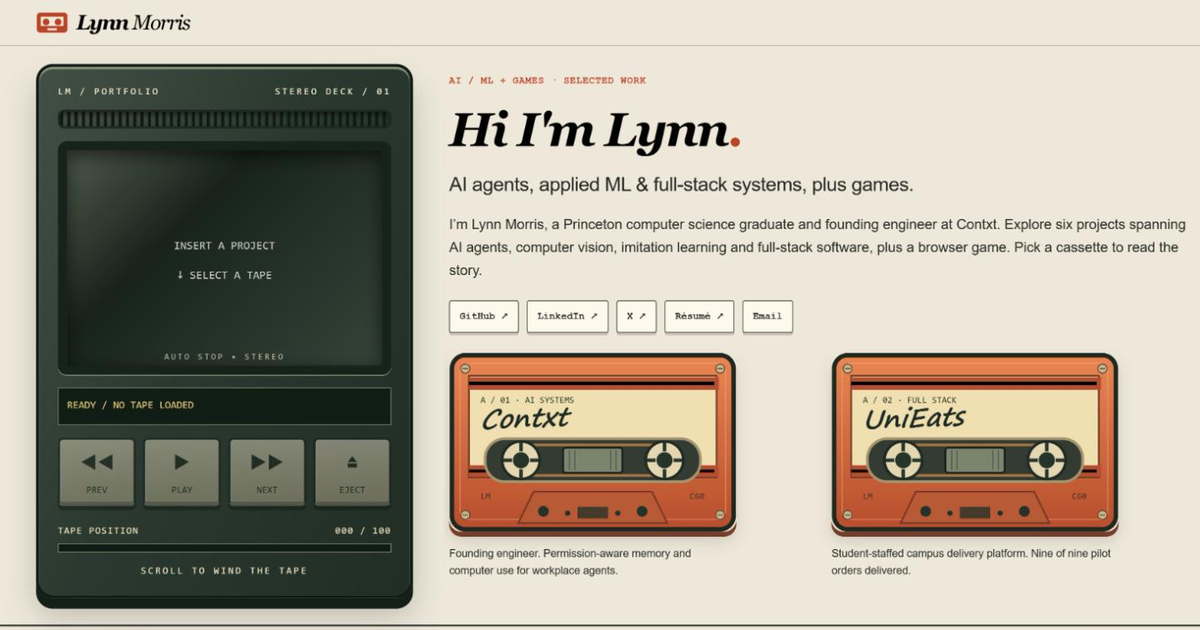
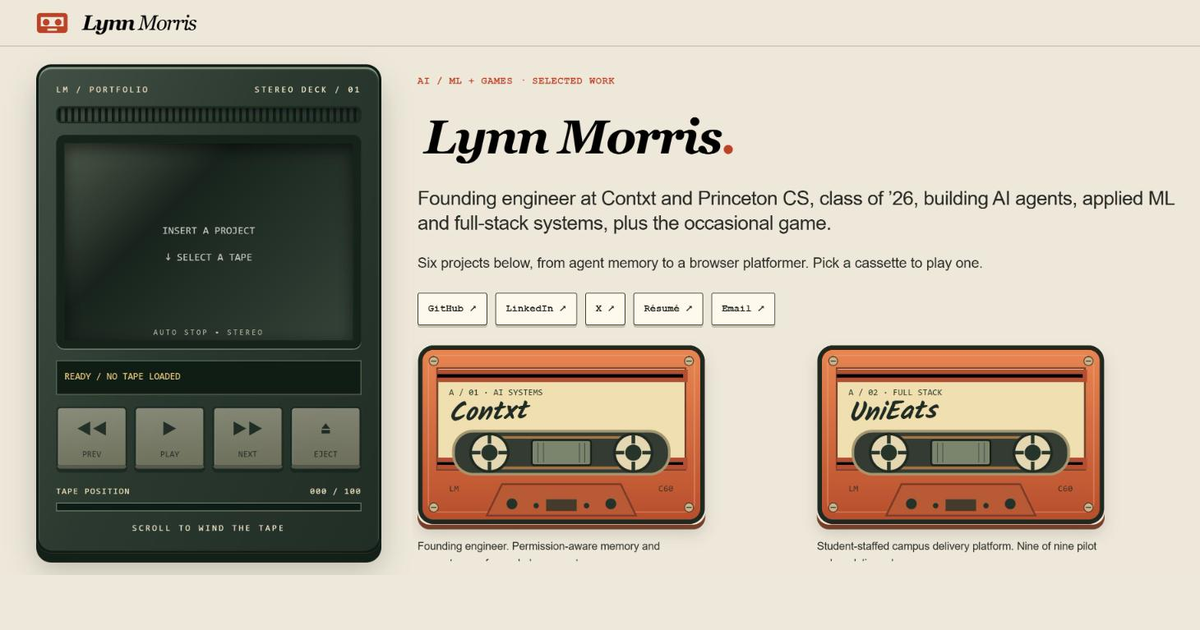
Rework the intro and stop the theme toggle from shifting the layout
- Headline is the name; the tagline carries the role and Princeton CS '26,
  and the body is just the project prompt
- Light mode now uses the same padding as dark mode's name plates, and the
  theme button keeps one width for both labels
- Refresh the link-preview image with the new intro

diff --git a/index.html b/index.html
@@ -1,1 +1,1 @@
-<!doctype html><html lang="en"><meta charset="utf-8"><meta name="viewport" content="width=device-width,initial-scale=1"><title>Lynn Morris · Tape collection</title><meta name="description" content="Lynn Morris is a founding engineer at Contxt and a Princeton computer science graduate. Case studies in AI agents, computer vision, imitation learning, full-stack software and a browser game."><link rel="canonical" href="https://lm7452.github.io/"><meta property="og:type" content="website"><meta property="og:url" content="https://lm7452.github.io/"><meta property="og:site_name" content="Lynn Morris"><meta property="og:title" content="Lynn Morris · AI / ML & Games"><meta property="og:description" content="Founding engineer at Contxt. Six projects across AI agents, computer vision, imitation learning, full-stack software and a browser game."><meta property="og:image" content="https://lm7452.github.io/assets/og-image.png"><meta property="og:image:width" content="1200"><meta property="og:image:height" content="630"><meta property="og:image:alt" content="Lynn Morris's portfolio: a cassette deck beside a shelf of project tapes."><meta name="twitter:card" content="summary_large_image"><meta name="twitter:creator" content="@Lynnmorris925"><meta name="theme-color" content="#eee8db" media="(prefers-color-scheme: light)"><meta name="theme-color" content="#202621" media="(prefers-color-scheme: dark)"><link rel="icon" href="assets/favicon.svg" type="image/svg+xml"><link rel="apple-touch-icon" href="assets/apple-touch-icon.png"><script>(function(){var t;try{t=localStorage.getItem('cassette-theme')}catch(e){}document.documentElement.dataset.theme=t||(matchMedia('(prefers-color-scheme: dark)').matches?'dark':'light')})()</script><link rel="preload" href="assets/fonts/kalam-700-latin.woff2" as="font" type="font/woff2" crossorigin><link rel="stylesheet" href="style.css?v=38e26c11"><link rel="stylesheet" href="player.css?v=dcef32e2"><script defer src="theme.js?v=d630f1e6"></script><script defer src="projects.js?v=82e04541"></script><script defer src="player.js?v=cfc456c7"></script><body><a class="skip" href="#content">Skip to content</a><header><a class="brand" href="#collection"><svg class="brand-icon" viewBox="0 0 48 32" aria-hidden="true"><rect x="1" y="1" width="46" height="30" rx="5" fill="currentColor"/><path d="M7 7h34v14H7z" fill="var(--bg)"/><circle cx="15" cy="15" r="5" fill="currentColor"/><circle cx="33" cy="15" r="5" fill="currentColor"/><path d="M17 26h14" stroke="var(--bg)" stroke-width="3"/></svg><span>Lynn <em>Morris</em></span></a><nav aria-label="Main"><a href="#collection">Collection</a><a href="assets/lynn-morris-resume.pdf" target="_blank" rel="noopener">Résumé</a><button id="theme">Dark mode</button></nav></header><main id="main"><div class="deck-layout"><div class="player-slot"><section class="deck" aria-label="Project cassette player"><div class="deck-top"><span>LM / PORTFOLIO</span><span>STEREO DECK / 01</span></div><div class="speaker" aria-hidden="true"></div><div class="bay"><div id="loaded" class="loaded"><span class="empty">INSERT A PROJECT<br>↓ SELECT A TAPE</span></div></div><p id="status" class="display" role="status">READY / NO TAPE LOADED</p><div class="keys"><button id="prev" aria-label="Previous project" disabled>◀◀<small>PREV</small></button><button id="play" disabled>▶<small>PLAY</small></button><button id="next" aria-label="Next project" disabled>▶▶<small>NEXT</small></button><button id="eject" disabled>⏏<small>EJECT</small></button></div><div class="tape-position"><label for="position">TAPE POSITION <output id="position-value">000 / 100</output></label><progress id="position" max="100" value="0">0%</progress></div><p class="deck-note">SCROLL TO WIND THE TAPE</p></section></div><div id="content" tabindex="0" role="region" aria-label="Cassette collection and project details"></div></div></main><footer><span>Lynn Morris · AI / ML & Games</span><span class="footer-links"><a href="https://github.com/Lm7452" target="_blank" rel="noopener">GitHub</a> · <a href="https://www.linkedin.com/in/lynnmorris925/" target="_blank" rel="noopener">LinkedIn</a> · <a href="https://x.com/Lynnmorris925" target="_blank" rel="noopener">X</a> · <a href="mailto:lmorris92504@gmail.com" target="_blank" rel="noopener">Email</a></span></footer></body></html>
+<!doctype html><html lang="en"><meta charset="utf-8"><meta name="viewport" content="width=device-width,initial-scale=1"><title>Lynn Morris · Tape collection</title><meta name="description" content="Lynn Morris is a founding engineer at Contxt and a Princeton computer science graduate. Case studies in AI agents, computer vision, imitation learning, full-stack software and a browser game."><link rel="canonical" href="https://lm7452.github.io/"><meta property="og:type" content="website"><meta property="og:url" content="https://lm7452.github.io/"><meta property="og:site_name" content="Lynn Morris"><meta property="og:title" content="Lynn Morris · AI / ML & Games"><meta property="og:description" content="Founding engineer at Contxt. Six projects across AI agents, computer vision, imitation learning, full-stack software and a browser game."><meta property="og:image" content="https://lm7452.github.io/assets/og-image.png"><meta property="og:image:width" content="1200"><meta property="og:image:height" content="630"><meta property="og:image:alt" content="Lynn Morris's portfolio: a cassette deck beside a shelf of project tapes."><meta name="twitter:card" content="summary_large_image"><meta name="twitter:creator" content="@Lynnmorris925"><meta name="theme-color" content="#eee8db" media="(prefers-color-scheme: light)"><meta name="theme-color" content="#202621" media="(prefers-color-scheme: dark)"><link rel="icon" href="assets/favicon.svg" type="image/svg+xml"><link rel="apple-touch-icon" href="assets/apple-touch-icon.png"><script>(function(){var t;try{t=localStorage.getItem('cassette-theme')}catch(e){}document.documentElement.dataset.theme=t||(matchMedia('(prefers-color-scheme: dark)').matches?'dark':'light')})()</script><link rel="preload" href="assets/fonts/kalam-700-latin.woff2" as="font" type="font/woff2" crossorigin><link rel="stylesheet" href="style.css?v=38e26c11"><link rel="stylesheet" href="player.css?v=1408e0f5"><script defer src="theme.js?v=d630f1e6"></script><script defer src="projects.js?v=82e04541"></script><script defer src="player.js?v=aa607d9c"></script><body><a class="skip" href="#content">Skip to content</a><header><a class="brand" href="#collection"><svg class="brand-icon" viewBox="0 0 48 32" aria-hidden="true"><rect x="1" y="1" width="46" height="30" rx="5" fill="currentColor"/><path d="M7 7h34v14H7z" fill="var(--bg)"/><circle cx="15" cy="15" r="5" fill="currentColor"/><circle cx="33" cy="15" r="5" fill="currentColor"/><path d="M17 26h14" stroke="var(--bg)" stroke-width="3"/></svg><span>Lynn <em>Morris</em></span></a><nav aria-label="Main"><a href="#collection">Collection</a><a href="assets/lynn-morris-resume.pdf" target="_blank" rel="noopener">Résumé</a><button id="theme">Dark mode</button></nav></header><main id="main"><div class="deck-layout"><div class="player-slot"><section class="deck" aria-label="Project cassette player"><div class="deck-top"><span>LM / PORTFOLIO</span><span>STEREO DECK / 01</span></div><div class="speaker" aria-hidden="true"></div><div class="bay"><div id="loaded" class="loaded"><span class="empty">INSERT A PROJECT<br>↓ SELECT A TAPE</span></div></div><p id="status" class="display" role="status">READY / NO TAPE LOADED</p><div class="keys"><button id="prev" aria-label="Previous project" disabled>◀◀<small>PREV</small></button><button id="play" disabled>▶<small>PLAY</small></button><button id="next" aria-label="Next project" disabled>▶▶<small>NEXT</small></button><button id="eject" disabled>⏏<small>EJECT</small></button></div><div class="tape-position"><label for="position">TAPE POSITION <output id="position-value">000 / 100</output></label><progress id="position" max="100" value="0">0%</progress></div><p class="deck-note">SCROLL TO WIND THE TAPE</p></section></div><div id="content" tabindex="0" role="region" aria-label="Cassette collection and project details"></div></div></main><footer><span>Lynn Morris · AI / ML & Games</span><span class="footer-links"><a href="https://github.com/Lm7452" target="_blank" rel="noopener">GitHub</a> · <a href="https://www.linkedin.com/in/lynnmorris925/" target="_blank" rel="noopener">LinkedIn</a> · <a href="https://x.com/Lynnmorris925" target="_blank" rel="noopener">X</a> · <a href="mailto:lmorris92504@gmail.com" target="_blank" rel="noopener">Email</a></span></footer></body></html>

diff --git a/player.js b/player.js
@@ -6,7 +6,7 @@ function tape(p){return `<svg class="cassette-art" viewBox="0 0 320 200" aria-hi
 function controls(on){for(const id of ['prev','play','next','eject'])document.getElementById(id).disabled=!on}
 function render(id,focus=false){const p=projects.find(p=>p.id===id);active=p||null;controls(!!p);document.querySelector('#play').innerHTML=p?.id==='dejavu'?'▶<small>PLAY GAME ↗</small>':p?'▶<small>READ WORK</small>':'▶<small>PLAY</small>';document.querySelector('#play').setAttribute('aria-label',p?.id==='dejavu'?'Play Deja Vu game in a new tab':p?'Read '+p.name+' case study':'Play');
  if(p){loaded.innerHTML=`<div class="tape">${tape(p)}</div>`;statusLine.textContent=`LOADED / ${p.name.toUpperCase()} / ${p.side}`;content.innerHTML=stories[p.id];content.querySelector('h1').tabIndex=-1;document.title=`${p.name} · Lynn Morris`;}
- else{loaded.innerHTML='<span class="empty">INSERT A PROJECT<br>↓ SELECT A TAPE</span>';statusLine.textContent='READY / NO TAPE LOADED';content.innerHTML=`<div class="collection-intro"><span class="eyebrow">AI / ML + GAMES · SELECTED WORK</span><h1>Hi I'm Lynn<span class="accent">.</span></h1><p class="lead">AI agents, applied ML & full-stack systems, plus games.</p><p>I’m Lynn Morris, a Princeton computer science graduate and founding engineer at Contxt. Explore six projects spanning AI agents, computer vision, imitation learning and full-stack software, plus a browser game. Pick a cassette to read the story.</p><div class="actions"><a class="pill" href="https://github.com/lm7452">GitHub ↗</a><a class="pill" href="https://www.linkedin.com/in/lynnmorris925/">LinkedIn ↗</a><a class="pill" href="https://x.com/Lynnmorris925">X ↗</a><a class="pill" href="assets/lynn-morris-resume.pdf">Résumé ↗</a><a class="pill" href="mailto:lmorris92504@gmail.com">Email ↗</a></div></div><div class="shelf">${projects.map(p=>`<article><a class="tape" href="#${p.id}" aria-label="Load ${p.name}">${tape(p)}</a><p class="tape-caption">${p.summary}</p></article>`).join('')}</div>`;document.title='Lynn Morris · Tape collection';}
+ else{loaded.innerHTML='<span class="empty">INSERT A PROJECT<br>↓ SELECT A TAPE</span>';statusLine.textContent='READY / NO TAPE LOADED';content.innerHTML=`<div class="collection-intro"><span class="eyebrow">AI / ML + GAMES · SELECTED WORK</span><h1>Lynn Morris<span class="accent">.</span></h1><p class="lead">Founding engineer at Contxt and Princeton CS, class of ’26, building AI agents, applied ML and full-stack systems, plus the occasional game.</p><p>Six projects below, from agent memory to a browser platformer. Pick a cassette to play one.</p><div class="actions"><a class="pill" href="https://github.com/lm7452">GitHub ↗</a><a class="pill" href="https://www.linkedin.com/in/lynnmorris925/">LinkedIn ↗</a><a class="pill" href="https://x.com/Lynnmorris925">X ↗</a><a class="pill" href="assets/lynn-morris-resume.pdf">Résumé ↗</a><a class="pill" href="mailto:lmorris92504@gmail.com">Email ↗</a></div></div><div class="shelf">${projects.map(p=>`<article><a class="tape" href="#${p.id}" aria-label="Load ${p.name}">${tape(p)}</a><p class="tape-caption">${p.summary}</p></article>`).join('')}</div>`;document.title='Lynn Morris · Tape collection';}
  // Outside links, PDFs and email open in a new tab so the deck stays loaded.
  content.querySelectorAll('a[href^="http"],a[href$=".pdf"],a[href^="mailto:"]').forEach(a=>{a.target='_blank';a.rel='noopener'});
  // Size side-by-side screenshots by aspect ratio so both render at the same height.

diff --git a/player.css b/player.css
@@ -111,3 +111,8 @@ footer a:hover{text-decoration:underline}
 
 /* Cassette labels use one handwriting face everywhere instead of whatever cursive the device has. */
 @font-face{font-family:'Tape Hand';src:url(assets/fonts/kalam-700-latin.woff2) format('woff2');font-weight:400 900;font-display:swap}
+
+/* Both themes share one box model; dark mode only fills in the plate, so toggling never moves anything. */
+.brand span{border-radius:4px;padding:4px 7px}
+.collection-intro h1{border-radius:5px;padding:8px;width:fit-content}
+#theme{min-width:14ch;text-align:center}
